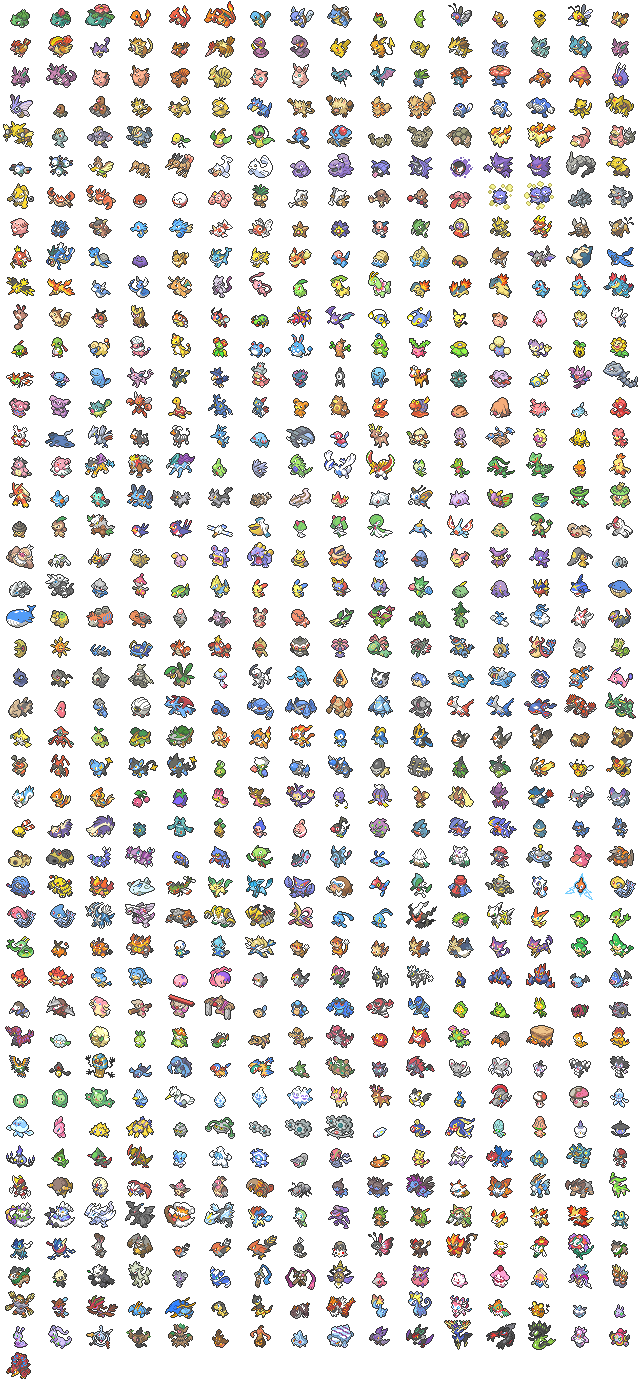
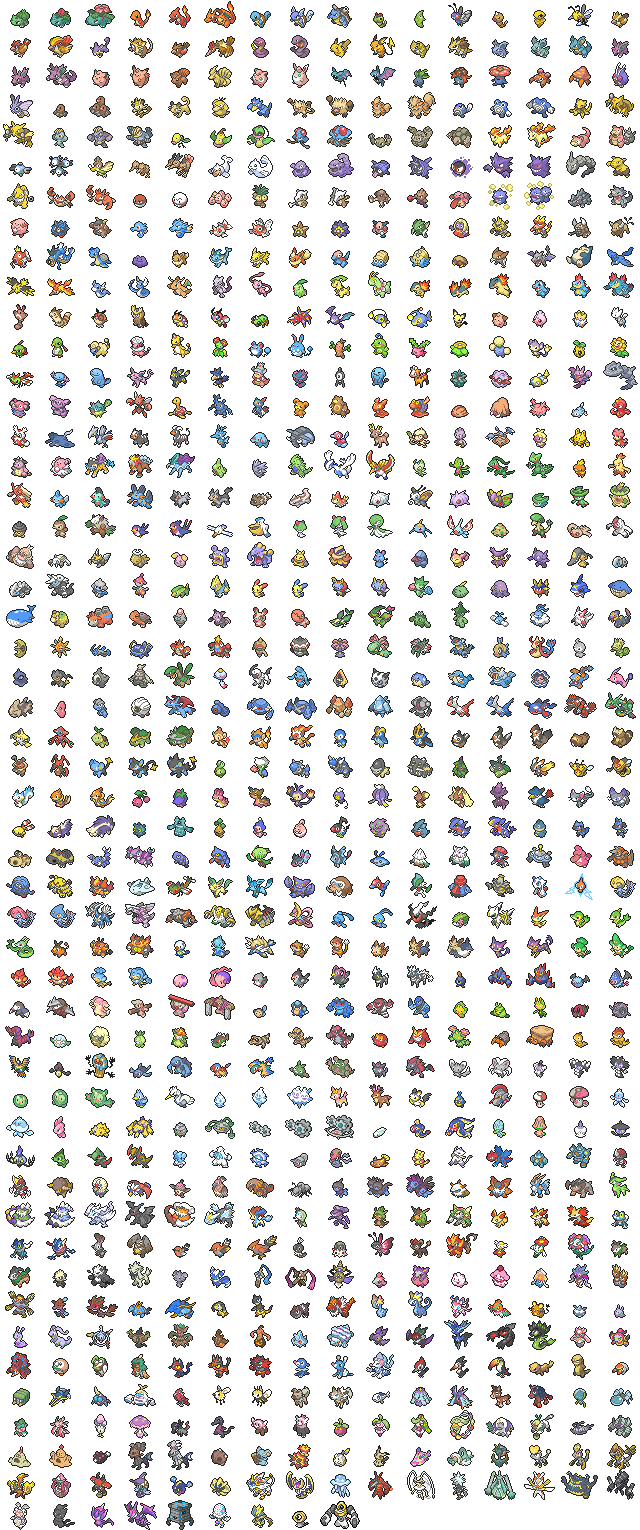
add gen7 boxicons

diff --git a/battle/makechart.py b/battle/makechart.py
@@ -184,8 +184,8 @@ im = PIL.Image.new(mode="RGBA", size=(movewidth + basedim + 16, basedim + 8), co
 
 # extracted from pokesprite's git repo under the icons/pokemon/regular dir using this cmd:
 # MAGICK_OCL_DEVICE=OFF montage -background none \
-# $(jq -r '.[].slug.eng + ".png" ' < ../../../data/pkmn.json  | head -n 721) \
-# -geometry +0+0  -tile 16x gen1.png && gliv boxicons.png
+# $(jq -r '.[].slug.eng + ".png" ' < ../../../data/pokemon.json | head -n 809) \
+# -geometry +0+0 -tile 16x boxicons.png
 sp = PIL.Image.open("boxicons.png")
 if opts.color == 'redgrayblue':
     cm = matplotlib.colors.LinearSegmentedColormap.from_list('redgrayblue',
